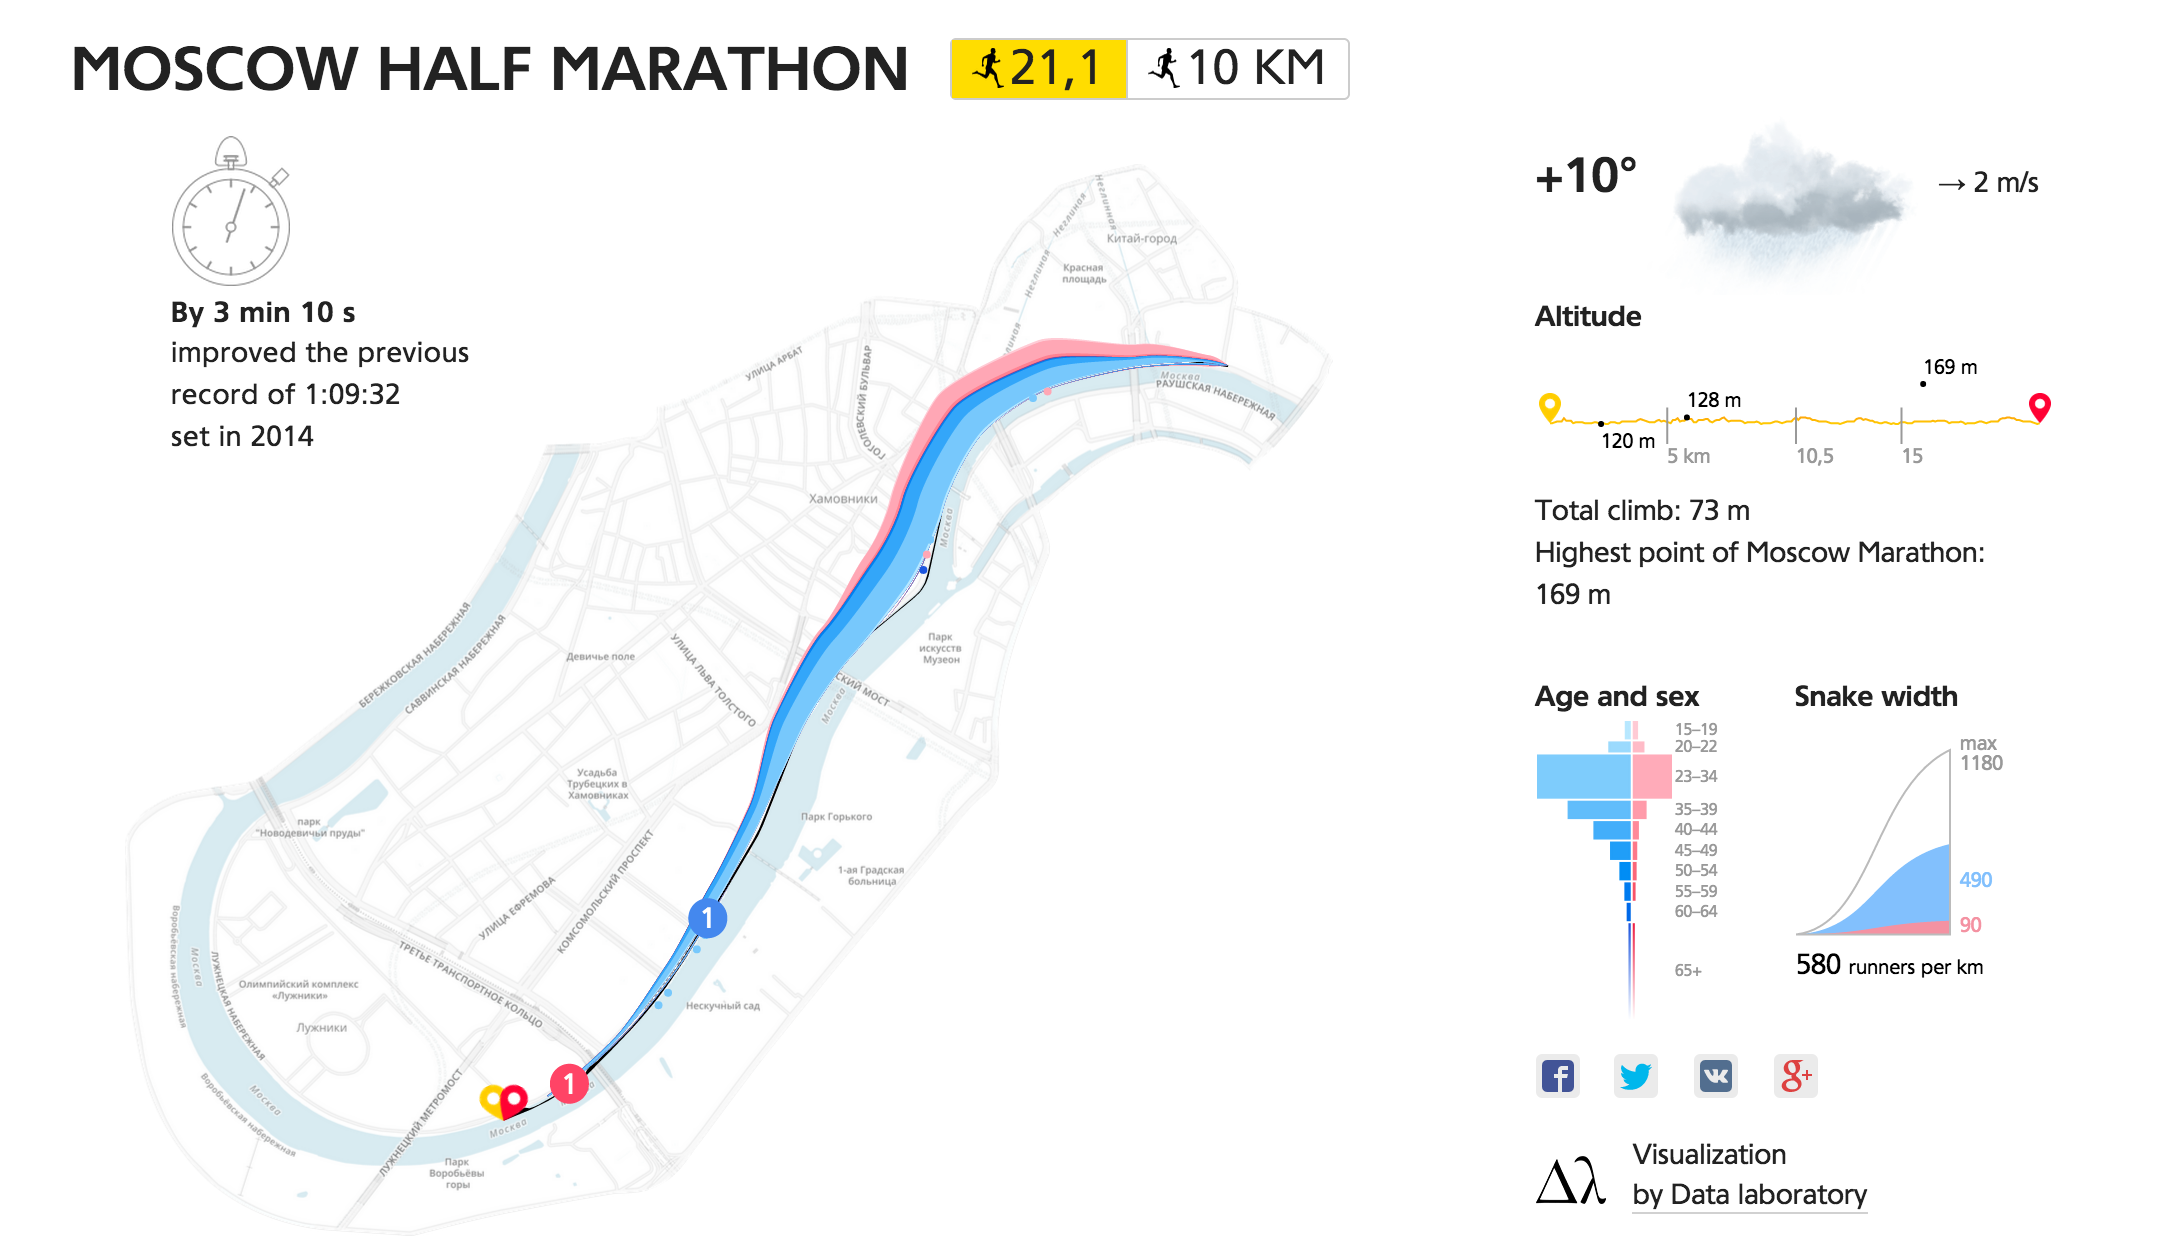
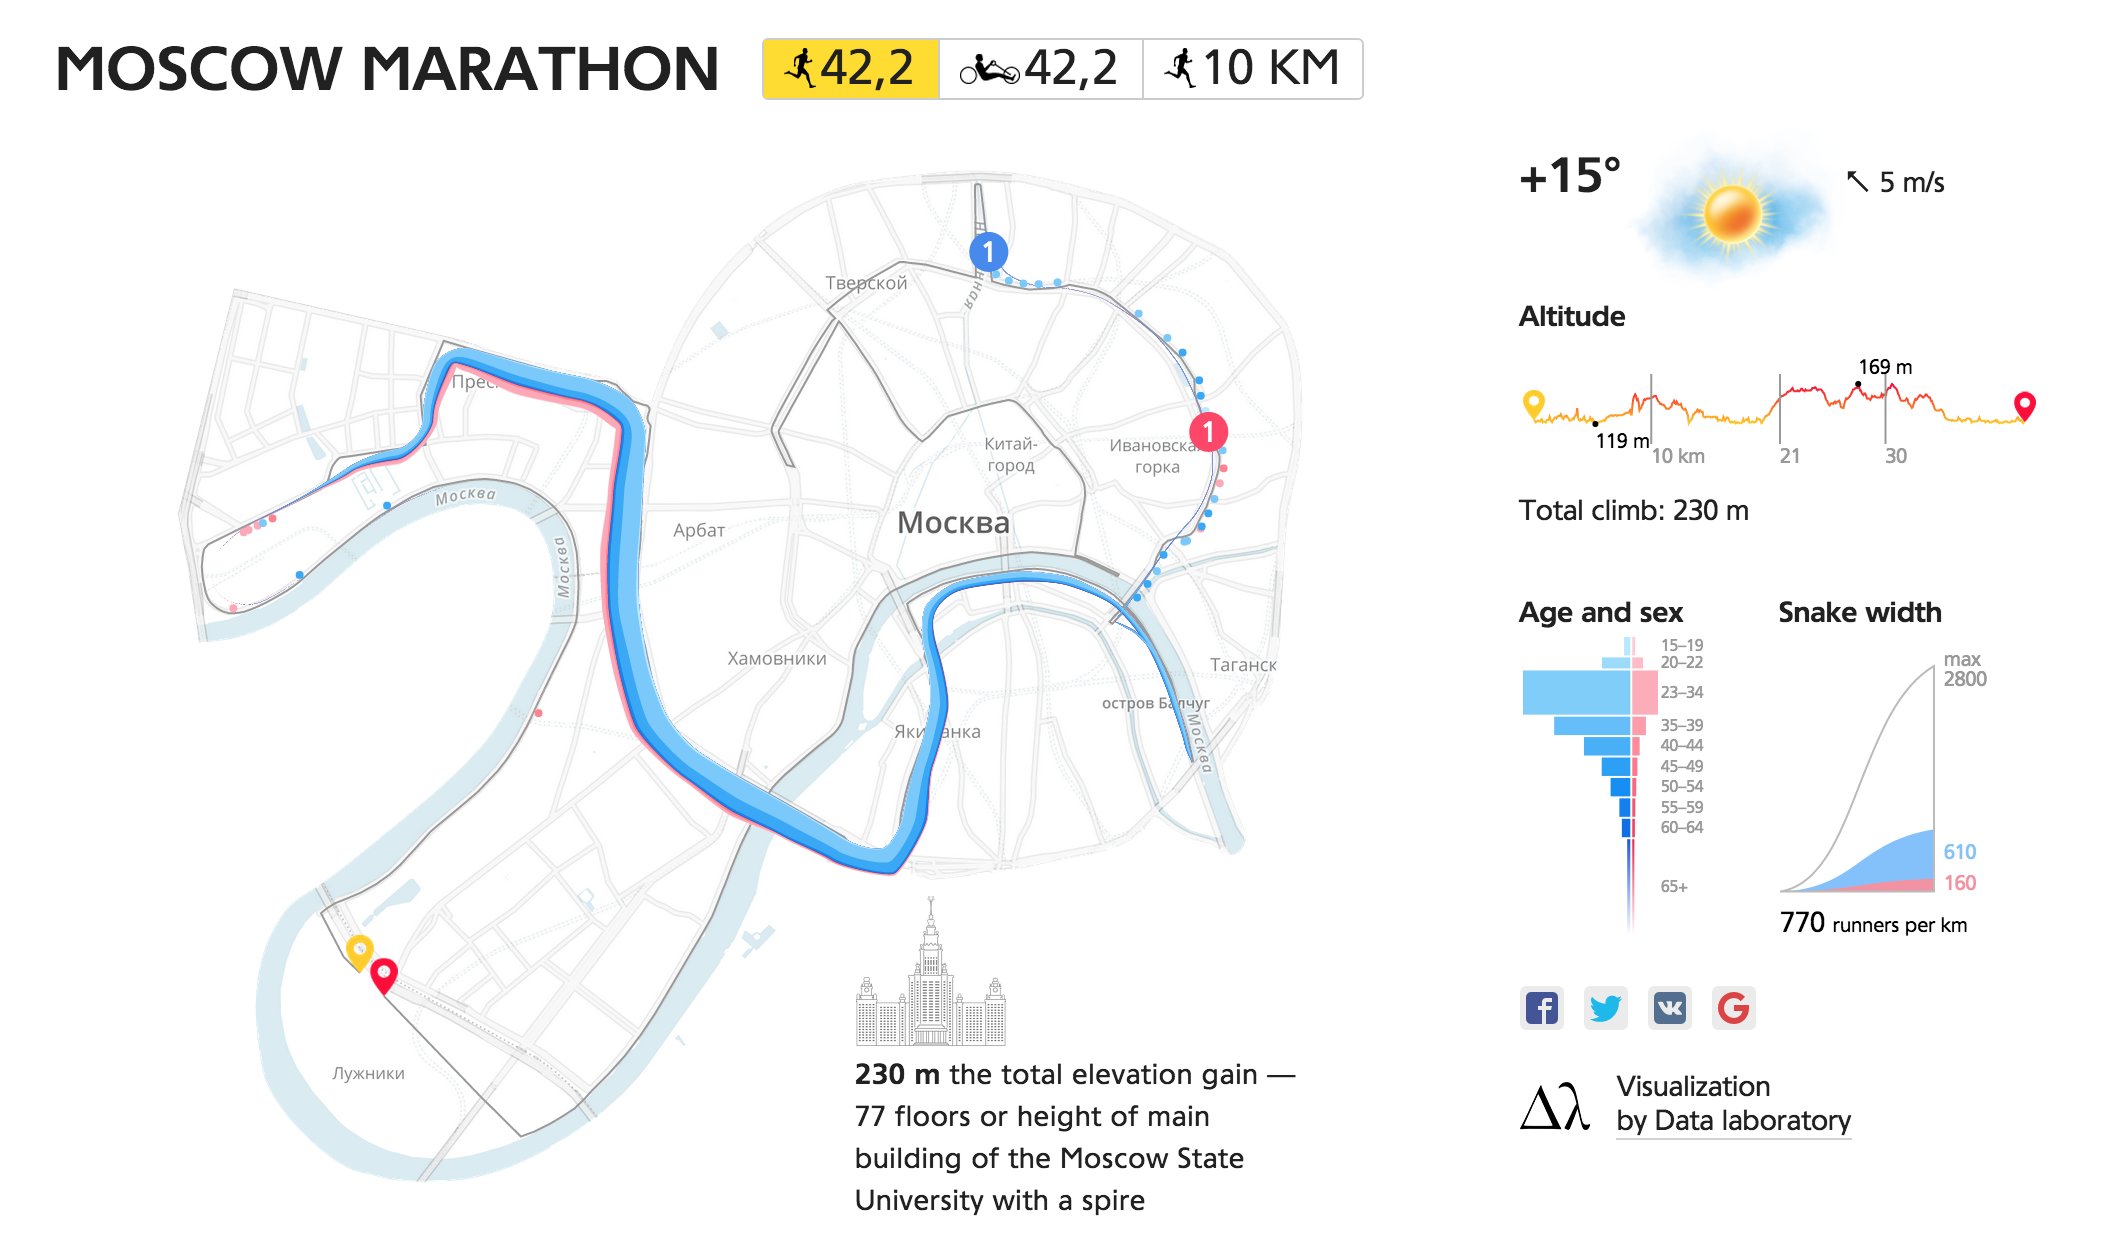
moscow marathon first pack

diff --git a/src/templates/directives/snakeRiseLegend.html b/src/templates/directives/snakeRiseLegend.html
@@ -28,20 +28,25 @@
         </g>
     </g>
     <g data-ng-if="currentTrackName == 'hb'" data-lab-render="renderCircleLegend" data-lab-margin>
-        <circle
-            data-ng-repeat="item in [0, 1, 2]"
-            class="snake-rise-legend__male-circle"
-            cy="10" r="2"></circle>
-        <text x="50" y="10"
-            class="snake-rise-legend__counter">
-            {{runnersCount.male}} {{runnersCount.male | numberDeclension:( 'MEN_DECLENSION' | translate)}}</text>
-
-        <circle
-            data-ng-repeat="item in [0, 1, 2]"
-            class="snake-rise-legend__female-circle"
-            cy="30" r="2"></circle>
-        <text x="50" y="30"
-              class="snake-rise-legend__counter">
-            {{runnersCount.female}} {{runnersCount.female | numberDeclension:( 'WOMEN_DECLENSION' | translate)}}</text>
+        <g data-ng-show="runnersCount.male">
+            <circle
+                data-ng-repeat="item in [0, 1, 2]"
+                class="snake-rise-legend__male-circle"
+                cy="10" r="2"></circle>
+            <text x="50" y="10"
+                  class="snake-rise-legend__counter">
+                {{runnersCount.male}} {{runnersCount.male | numberDeclension:( 'MEN_DECLENSION' | translate)}}
+            </text>
+        </g>
+        <g data-ng-show="runnersCount.female">
+            <circle
+                data-ng-repeat="item in [0, 1, 2]"
+                class="snake-rise-legend__female-circle"
+                cy="30" r="2"></circle>
+            <text x="50" y="30"
+                  class="snake-rise-legend__counter">
+                {{runnersCount.female}} {{runnersCount.female | numberDeclension:( 'WOMEN_DECLENSION' | translate)}}
+            </text>
+        </g>
     </g>
 </svg>

diff --git a/src/js/controllers/marathon.js b/src/js/controllers/marathon.js
@@ -1,13 +1,8 @@
 angular.module('marathon').controller('MarathonController', function ($scope, $rootScope, $http, $translate, $parse, $timeout, $location, numberDeclension, multifilter, ageGroups, runnerLoader) {
 
-    var counter = 0;
-    $scope.$watch(function () {
-        counter++;
-        //console.log('counter', counter);
-    });
     function changeLanguage() {
         $rootScope.location = document.location.href;
-        var lang = ($rootScope.location.indexOf('/en/') > -1) ? 'en' : 'ru';
+        var lang = ($rootScope.location.indexOf('/ru/') > -1) ? 'ru' : 'en';
         $rootScope.language = lang;
         $translate.use(lang);
     }
@@ -27,16 +22,16 @@ angular.module('marathon').controller('MarathonController', function ($scope, $r
         },
         runners: {
             'hb': runnerLoader.loadRunners([
-                'data/runners/21km-handbiker-men.json',
-                'data/runners/21km-handbiker-woman.json'
+                '../../../protocols/2015/moscowmarathon/42km-handbiker-men.json',
+                '../../../protocols/2015/moscowmarathon/42km-handbiker-women.json'
             ]),
             '42km': runnerLoader.loadRunners([
-                'data/runners/42km-men.json',
-                'data/runners/42km-women.json'
+                '../../../protocols/2015/moscowmarathon/42km-men.json',
+                '../../../protocols/2015/moscowmarathon/42km-women.json'
             ]),
             '10km': runnerLoader.loadRunners([
-                'data/runners/10km-men.json',
-                'data/runners/10km-women.json'
+                '../../../protocols/2015/moscowmarathon/10km-men.json',
+                '../../../protocols/2015/moscowmarathon/10km-women.json'
             ])
         }
     };

diff --git a/src/js/directives/mapContainer.js b/src/js/directives/mapContainer.js
@@ -74,15 +74,21 @@ angular.module('marathon').directive('mapContainer', function ($rootScope, mapHe
                 time *= 1;
                 var step = 400;
                 var runners = runnerClassificator.checkData($scope.filteredRunners);
-                mapHelper.getPoints(
-                    runners.runners_groups,
-                    $scope.ageAreas,
-                    time,
-                    step);
+                if ($scope.currentTrackName != 'hb'){
+                    mapHelper.getPoints(
+                        runners.runners_groups,
+                        $scope.ageAreas,
+                        time,
+                        step);
+                }
                 $scope.circles = mapHelper.drawRunnersPoints(
                     $scope.filteredRunners,
                     time,
-                    step);
+                    step,
+                    $scope.currentTrackName);
+                $timeout(function () {
+                    $scope.$broadcast('render', render);
+                })
             }
 
             $scope.scaleAll = function () {
@@ -167,15 +173,13 @@ angular.module('marathon').directive('mapContainer', function ($rootScope, mapHe
                                 height: originalHeight * scale
                             });
                             drawSnake($scope.time.current);
-                            $scope.$broadcast('render', render);
+
                         });
 
                         $scope.$on('$destroy', function () {
                             unbindStartRender();
                         });
 
-                        $scope.$on('render', function () {
-                        })
                     }
                 });
             });

diff --git a/src/js/directives/timemarks.js b/src/js/directives/timemarks.js
@@ -7,9 +7,10 @@ angular.module('marathon').directive('timeMarks', function () {
             $scope.$watch('timeScale.domain()', function () {
                 $scope.timeMarks = [];
                 var timeMarksCount = Math.ceil($scope.time.maxTime / 3600);
+                var mark = moment($scope.time.start);
                 for (var i = 0; i < timeMarksCount; i++) {
-                    var mark = moment($scope.time.start).add(i, 'h').toDate();
-                    $scope.timeMarks.push(mark);
+                    $scope.timeMarks.push(mark.clone().toDate());
+                    mark.add(1, 'h');
                 }
                 var lastMark = moment($scope.time.start).add($scope.time.maxTime, 's').toDate();
                 $scope.timeMarks.push(lastMark);

diff --git a/src/templates/pages/marathon.html b/src/templates/pages/marathon.html
@@ -28,7 +28,7 @@
                             <div class="legend__altitude">
                                 <span class="legend__header">{{ 'ALTITUDE_TITLE' | translate }}</span>
                                     <altitude-legend></altitude-legend>
-                            <span class="legend__altitude-text"
+                            <span data-ng-show="currentTrackName != '10km'" class="legend__altitude-text"
                                   data-ng-bind-html="'ALTITUDE_TEXT1' | translate | trust "></span>
                             <span data-ng-show="currentTrackName == '10km'" class="legend__altitude-text"
                                   data-ng-bind-html="'ALTITUDE_TEXT2' | translate | trust "></span>

diff --git a/src/js/services/mapHelper.js b/src/js/services/mapHelper.js
@@ -327,7 +327,7 @@ angular.module('marathon').factory('mapHelper', function (track, genderColors, l
         };
     };
 
-    var drawRunnersPoints = function (runners, timestamp, step) {
+    var drawRunnersPoints = function (runners, timestamp, step, trackName) {
         var point_radius = 2;
         var prevPosition;
 
@@ -356,7 +356,7 @@ angular.module('marathon').factory('mapHelper', function (track, genderColors, l
             }
         };
 
-        var limit = 5;
+        var limit = (trackName == 'hb')?  20 : 5;
 
         var steps_runners = getStepsRunners(runners, complects, timestamp, true);
 

diff --git a/src/js/services/translationEn.js b/src/js/services/translationEn.js
@@ -6,7 +6,7 @@ angular.module('marathon').constant('translationEn', {
     GENDER_AGE_TITLE: 'Age and sex',
     SNAKE_WIDTH_TITLE: 'Snake width',
     SNAKE_WIDTH_TITLE_HB: 'Handbikers on map',
-    ALTITUDE_TEXT1: 'Total climb: 73&nbsp;m<br>',
+    ALTITUDE_TEXT1: 'Total climb: 230&nbsp;m<br>',
     ALTITUDE_TEXT2: 'Highest point of Moscow Marathon: 169&nbsp;m',
     RESULTS: 'Results',
     WINNERS: 'winners',

diff --git a/src/js/directives/snakeRiseLegend.js b/src/js/directives/snakeRiseLegend.js
@@ -92,9 +92,6 @@ angular.module('marathon').directive('snakeRiseLegend', function (mapHelper, tra
             $rootScope.$on('renderRequired', function() {
                 renderRequired = performance.now();
             });
-            $scope.$on('render', function () {
-
-            });
 
             $scope.renderSnakeLegend = function () {
                 if (!$scope.snake || !$scope.snake.path) return;
